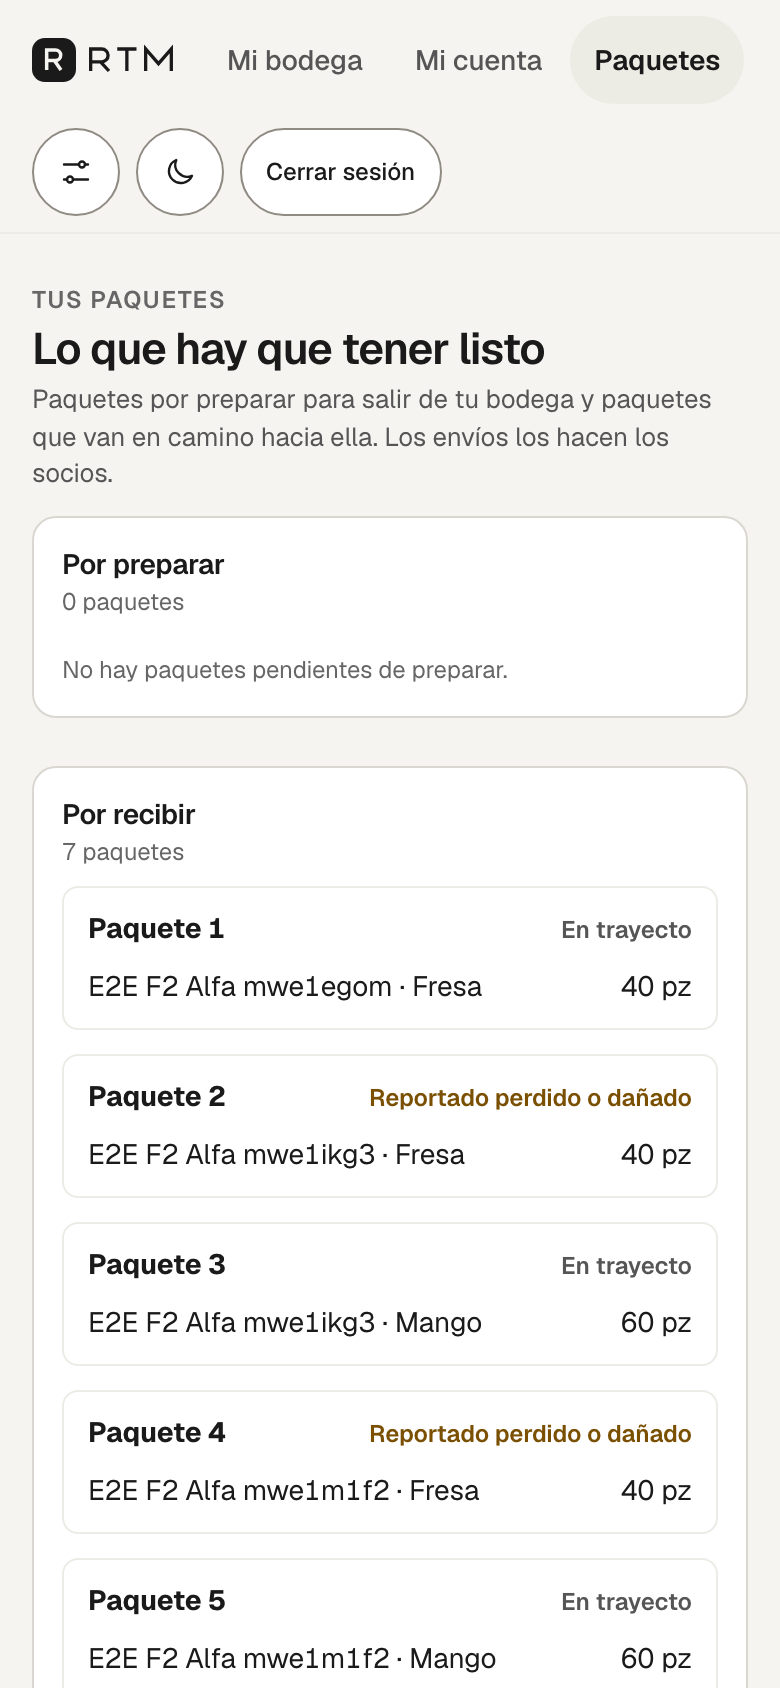
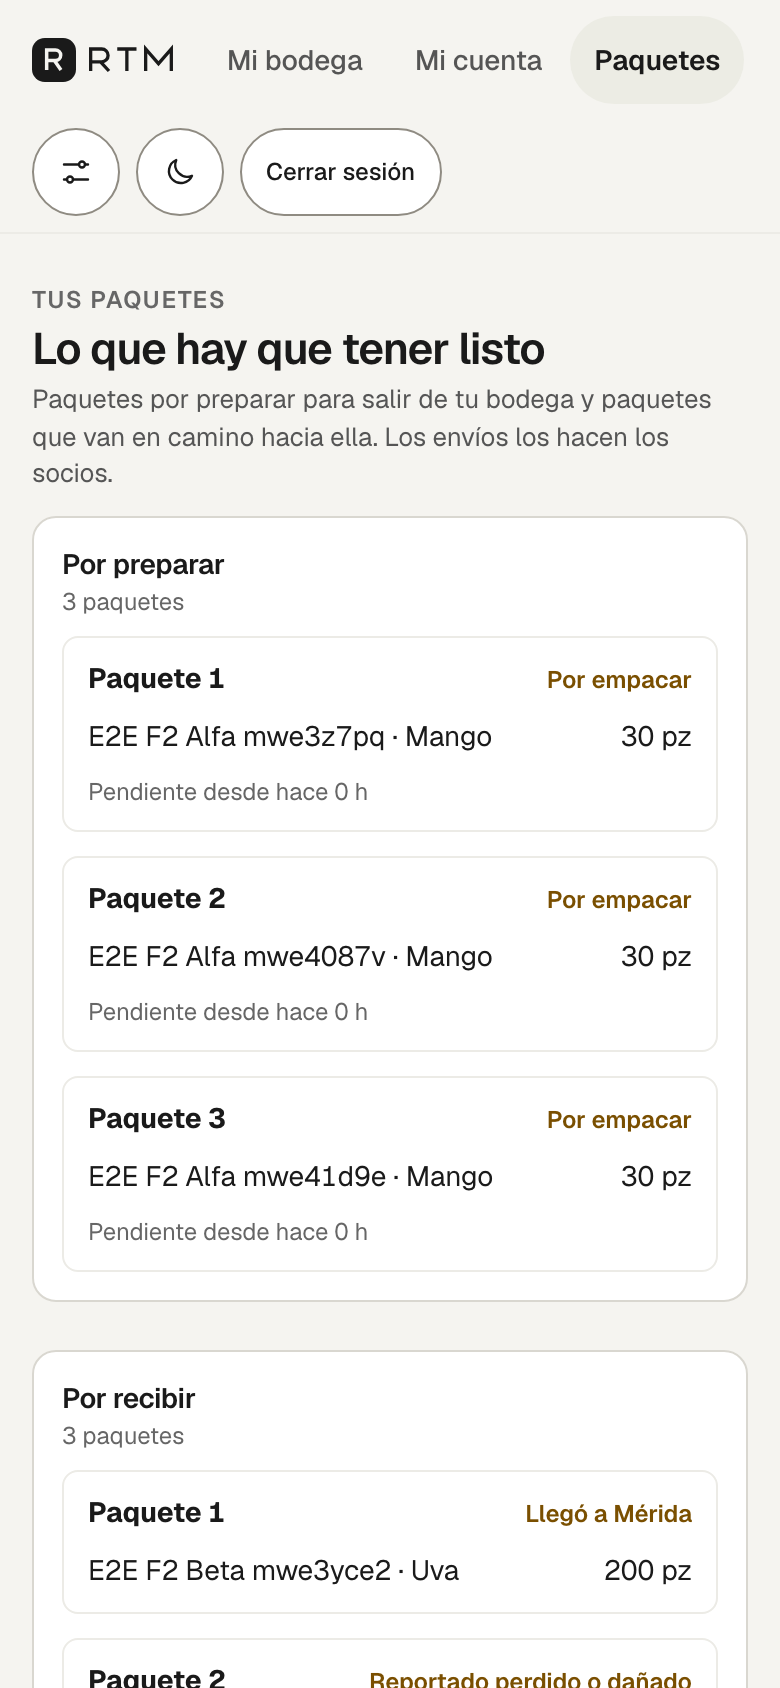
docs(paquetes): capturas e informe de la ronda de reparacion del verificador

diff --git a/docs/lanes/paquete-perdido.md b/docs/lanes/paquete-perdido.md
@@ -6,8 +6,8 @@ Rama `lane/paquete-perdido` (worktree `~/rtm-lane-paquete`, desde `rediseno/prem
 Migracion aditiva `20261112400000_lane_paquete_perdido.sql`: incidentes de solo insercion (`paquete_incidente`, `_linea`, `_resolucion`), reportar en salida (pedido enviado) y entrada (orden en camino), resolver con responsable sociedad (perdida 50/50 via utilidad del periodo, se arrastra), socio (cuenta por cobrar, adenda 29, 1170/1180), proveedor (reclamo) o cliente (sin efecto). Salida: reponer (merma al costo promedio + guia del reenvio como gasto nuevo una sola vez) o bonificar (correccion de nota, reclasificacion 5100 a 5200). Entrada: recibe lo sano, lo perdido no entra a existencia, la diferencia se castiga/asigna con las funciones existentes. Avisos NT-080/081 por `operacion.avisar` (nada se envia sin token). `operacion.utilidad_periodo` envuelta para incluir el ajuste; Explicar `paquete:valor|absorbe:<id>` con dos vias; `omar.mis_paquetes` muestra estado `incidente` sin dinero. Pantallas en por-hacer y en-trayecto (dialogos, tabla con totales); allow-list de explicar ampliada. Tambien corregido un bug de la base de rediseno: `.rtm-region {display: contents}` rompia el armazon de todas las paginas.
 
 ## Comandos y resultados reales (verificados tras `supabase db reset --local`, que aplica las 44 migraciones desde cero incluida la mia)
-- `supabase test db supabase/tests/database/028_paquete_perdido.test.sql`: 82/82 OK.
-- `supabase test db` completo en base limpia: 47 archivos, 2,288 pruebas; unico fallo `024_omar_cuenta_sin_folio` test 13 (ajuste de -60.00, obtuvo -100.00). Verificado que es ANTERIOR al carril: con mi migracion retirada y la base reiniciada falla igual (mismo valor). No lo toque. (018 actualizado de 125 a 127 tipos de aviso.) Con la base contaminada por e2e fallan ademas 903, 906 y a3_001: efecto de datos de otras corridas, no del carril (en base limpia pasan).
+- `supabase test db supabase/tests/database/028_paquete_perdido.test.sql`: 99/99 OK (82 originales + 17 de la ronda de reparacion).
+- `supabase test db` completo en base limpia (`supabase db reset --local` y luego la corrida): 47 archivos, 2,305 pruebas, Result: PASS. El fallo anterior de `024_omar_cuenta_sin_folio` (test 13, -100.00 contra -60.00) era una prueba dependiente de la fecha: suponia que hoy era 2026-11-11; ahora usa `negocio.hoy()` (commit aparte, no es del carril). 018 actualizado de 125 a 127 tipos de aviso.
 - vitest completo: 114 archivos, 1,723 pasaron (+2 esperadas como fallo). Nuevos: `dialogos-incidente.test.tsx` (7) y `paquetes-incidente.test.tsx` (2).
 - `tsc --noEmit`, `npm run lint`, `npm run guardas` (0 violaciones), `npm run secretos` (0 hallazgos): limpios. `next build`: OK.
 - e2e laptop 1440 tras base limpia: `paquete-perdido.spec.ts` 2/2 y `f2.spec.ts` 4/4 OK (el fallo de saldo_puente era contaminacion de mis capturas, confirmado). `f3b-inventario.spec.ts` 10 OK en la corrida previa. e2e movil (iphone-16-pro, fold-cerrado, fold-abierto) 6/6 OK, sin desborde horizontal.
@@ -21,6 +21,14 @@ Migracion aditiva `20261112400000_lane_paquete_perdido.sql`: incidentes de solo 
 ## Pendientes reales
 - Renta de Omar de una reposicion: no se devenga (parametro del dueño sin definir).
 - Pedidos directos del proveedor (karen/isaac directo): el reporte se rechaza con mensaje; el reclamo se hace por la cuenta con el proveedor.
-- Reasignar el responsable de una SALIDA ya resuelta no existe (en ENTRADA se reasigna con las funciones de la compra y la lectura muestra el vigente); anular una resolucion de salida requiere contramovimientos manuales.
+- Reasignar el responsable de una SALIDA ya resuelta no existe (en ENTRADA se reasigna con las funciones de la compra y la lectura muestra el vigente, derivado de las asignaciones: `operacion.paquete_entrada_vigente`); anular una resolucion de salida requiere contramovimientos manuales.
 - Reclamo a la paqueteria como activo propio: no hay cuenta, se modela como sociedad, socio o proveedor.
 - Incidente de entrada tras una recepcion ya confirmada: se resuelve desde la pantalla de la compra (diferencias); este flujo solo reporta antes de recibir.
+
+## Ronda de reparacion (hallazgos del verificador)
+- MODERADO, lectura de entrada: la tabla usaba `resolucion.responsable` guardado y ganaba sobre el vigente. Ahora `operacion.paquete_entrada_vigente` deriva de las asignaciones vigentes de las diferencias (responsable, socio, absorbe, por cobrar, accion; 'mixto' si hay varios) y `api.paquetes_incidentes` entrega ese efecto como `resolucion` en entrada; la tabla usa el vigente. Reproduccion del verificador cubierta en pgTAP (F2): resolver socio, reasignar a proveedor desde la compra, la lectura da proveedor y por cobrar 5,000.00 sin rotular a Angelo.
+- MENOR, entrada resuelta desde la compra: ya hay efecto derivado aunque no exista fila en `paquete_incidente_resolucion` (pgTAP G: castigo desde la compra muestra sociedad/castigar/absorbe) y `api.explicar_cifra('paquete:absorbe:<id>')` funciona por dos vias (asignacion vigente contra diferencias castigadas). Antes de resolver sigue dando 'aun no tiene resolucion'. La migracion se edito en su sitio: aun no esta aplicada en ninguna base compartida.
+- MENOR, visual: Folio y Pedido ya no se parten; Cliente y renglones se truncan a una linea; se unio Tipo con los renglones ('Perdido: Mango 5 pz (modelo)'), se quito la columna Reportado y se acortaron los rotulos de responsable. La tabla de salida cabe en 1440 sin desplazamiento y el boton Resolver se ve completo (captura `1440-claro-por-hacer.png`, leida). Pendiente visual NO tocado: en en-trayecto la tabla de ordenes apila 3 filas de botones por renglon y su contenedor recorta la ultima orden (C-0013 parcial); es de la pantalla existente, no del flujo de incidentes.
+- BASE ROJA: arreglada la prueba 024 (ver arriba).
+- DECISION DE DISENO PENDIENTE DEL DUENO (no se resolvio, no se inventa): al reponer con responsable=socio se le carga solo el costo de la merma; la guia del reenvio sigue restando a la utilidad compartida. Falta confirmar quien paga la guia. Los controles reproducir_saldos no empeoran. Siguen fuera de alcance: renta de Omar por reposicion, pedidos directos del proveedor, reasignar o anular una salida resuelta.
+- Comprobaciones de esta ronda: tsc, lint, guardas (0), secretos (0), vitest 114 archivos / 1,723 pasaron + 2 esperadas como fallo; pgTAP completo PASS (2,305); Playwright laptop-1440, iphone-16-pro, fold-cerrado y fold-abierto (paquete-perdido, movil-paquete-perdido y f2): 20 pasaron, 1 omitida (la de plegado a desplegado en iphone). Una corrida intermedia con carga de 100+ fallo f2 'orden de compra a Karen' por tiempo y paso al repetirla con carga baja. Spec e2e ajustado al rotulo 'Sociedad'. Capturas regeneradas en docs/capturas/paquete-perdido.
